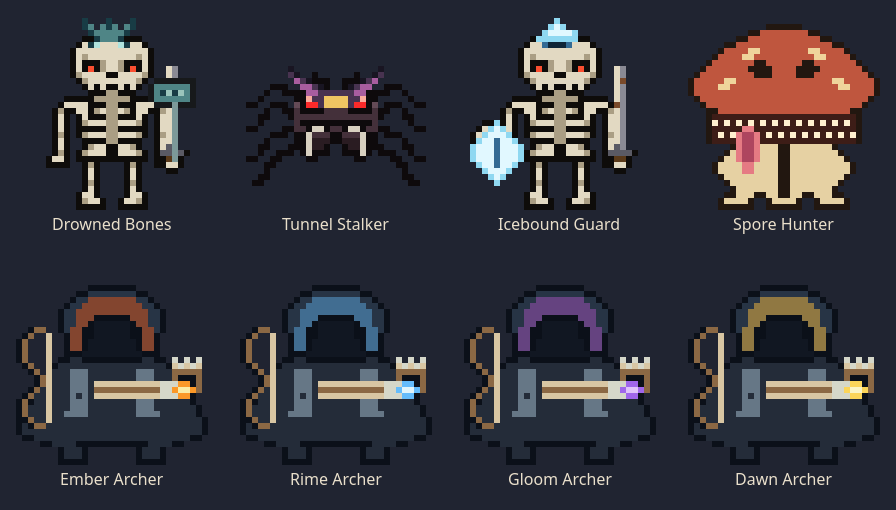
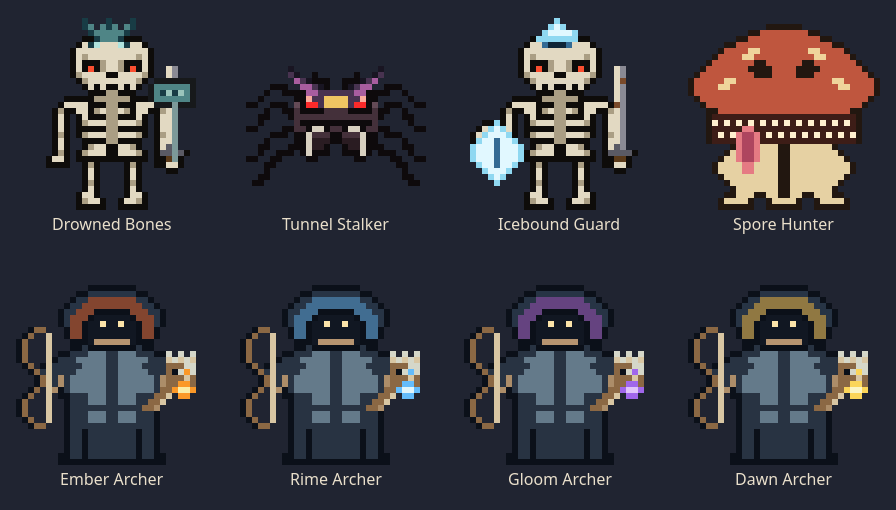
Redraw elemental archer idle and bow draw poses

diff --git a/src/art/enemies-elemental.ts b/src/art/enemies-elemental.ts
@@ -11,40 +11,41 @@ const ARCHER_HALF = rows(`
   ..........kkbbbb
   .........kbbcccc
   ........kbbccccc
-  .......kbbcccccc
   .......kbbccckkk
-  .......kbbcckmmm
-  .......kbcckkmmm
-  ........kcckkmmm
+  .......kbccckmmm
+  .......kbcckmmvm
   ........kcckmmmm
   ........kcckmmmm
-  ........kkkmmmmm
-  .......kkddkkkkk
-  ......kddddddddd
-  .....kdddeeedddd
-  ....kddddeeedddd
-  ...kdddddeeedddd
-  ...kdddddeeedddd
-  ..kddddddededddd
-  ..kddddddeeedddd
-  .kdddddddeeedddd
-  .kddddddeeeedddd
-  kddddddddddddddd
-  kddddddddddddddd
-  kddddddddddddddd
-  .kkddddddddddddd
-  ....kkddddkkkkkk
-  .......kdddk....
-  .......kdddk....
-  .......kkkkk....
+  .........kkkmfff
+  .........kkdkkkk
+  .......kkdddeeed
+  .....kkdddeeeeed
+  ....kddddddeeeed
+  ...kddddddeeeeed
+  ...kdddgdeeeeeed
+  ....kddgdeeeeeed
+  .....kgkdeeeeeed
+  .......kkdddeeed
+  ........kdddeeed
+  ........kddddddd
+  ........kdddeeed
+  ........kdddeeed
+  ........kddddddd
+  ........kddkdddd
+  ........kddkdddd
+  ........kddkdddd
+  ........kddkdddd
+  .......kkddkdddd
+  .......kkkkkkkkk
 `);
 const ARCHER_PAL = {
-  k: '#0b1019', b: '#273445', c: '#506476', d: '#242c39', e: '#667786',
-  m: '#111722', a: '#8b6844', s: '#d8c6a3', t: '#d5d7c9',
+  k: '#0b1019', b: '#273445', c: '#506476', d: '#283342', e: '#647a8a',
+  m: '#111722', f: '#b69470', g: '#ac8d69', v: '#ffe6abfa',
+  a: '#8b6844', s: '#d8c6a3', t: '#d5d7c9',
 };
-// A tall recurved bow, held to the archer's left. Its string stays visible in
-// both frames, separating this figure from a staff wielder at corridor scale.
-const BOW = rows(`
+// Slack on the left in idle; raised in front of the chest when drawing. The
+// bow itself changes position and curve, rather than just the glowing arrow.
+const BOW_IDLE = rows(`
   ..kaa..
   .ka..s.
   ka...s.
@@ -62,6 +63,23 @@ const BOW = rows(`
   ka...s.
   .ka..s.
   ..kaa..
+`);
+const BOW_DRAWN = rows(`
+  ....aaa....
+  ...aa.s....
+  ..aa..s....
+  .aa...s....
+  aa....s....
+  a.....s....
+  a.....s....
+  a.....s....
+  a.....s....
+  a.....s....
+  aa....s....
+  .aa...s....
+  ..aa..s....
+  ...aa.s....
+  ....aaa....
 `);
 const QUIVER = rows(`
   t.t.t
@@ -72,9 +90,14 @@ const QUIVER = rows(`
   akkka
 `);
 const HELD_ARROW = rows(`
-  sssssssssssttt
-  aaaaaaaaaaattt
-  sssssssssssttt
+  .......tt
+  ......tGt
+  .....aas.
+  ....aas..
+  ...aas...
+  ..aas....
+  .aas.....
+  aag......
 `);
 const DRAWN_ARROW = rows(`
   ....ttttt....
@@ -99,9 +122,9 @@ const TIP_DRAWN = rows(`
   .GHHHG.
   ..GGG..
 `);
-const baseArcher = stamp(sym(ARCHER_HALF), BOW, 0, 9);
-const idleArcher = stamp(stamp(baseArcher, QUIVER, 26, 14), HELD_ARROW, 13, 18);
-const attackArcher = stamp(baseArcher, DRAWN_ARROW, 10, 14);
+const bodyArcher = sym(ARCHER_HALF);
+const idleArcher = stamp(stamp(stamp(bodyArcher, QUIVER, 25, 13), BOW_IDLE, 0, 9), HELD_ARROW, 21, 15);
+const attackArcher = stamp(stamp(bodyArcher, BOW_DRAWN, 7, 8), DRAWN_ARROW, 10, 14);
 
 const ELEMENTS = [
   { sprite: 'cinder', tip: '#ff9a28fa', core: '#fff0a8fa', trim: '#83452f' },
